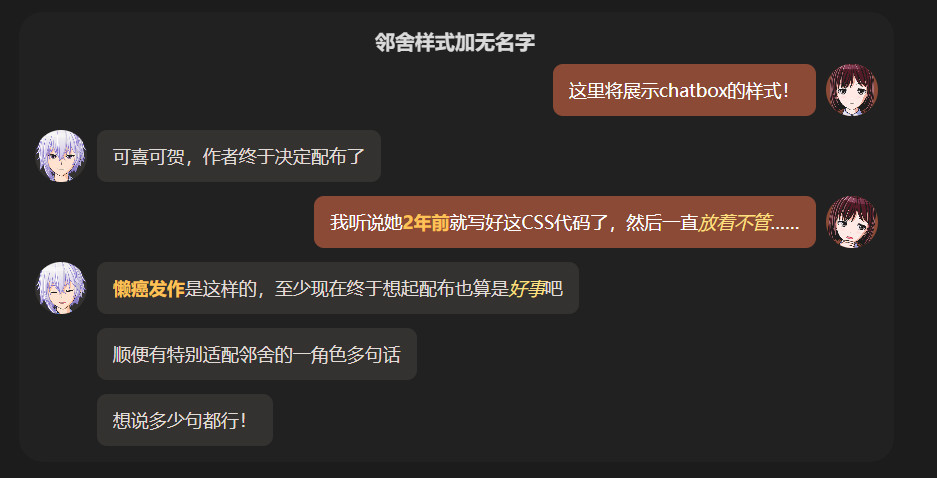
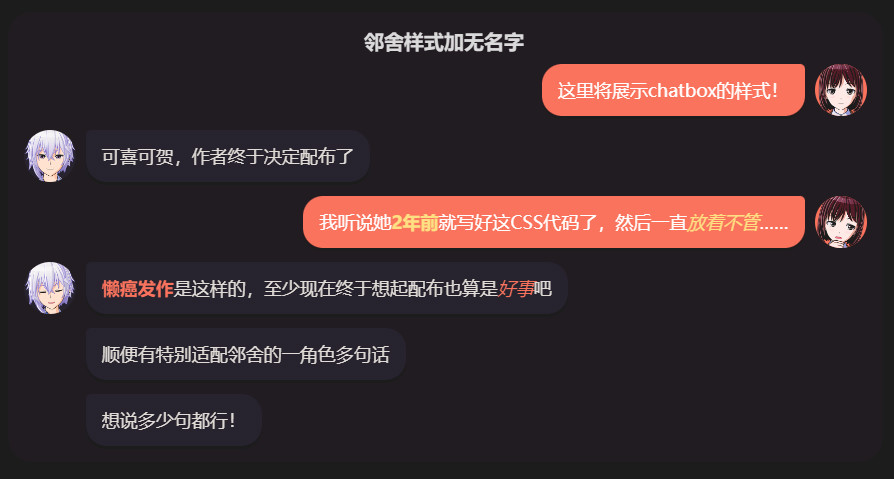
更新邻舍样式为新版本

diff --git a/Css/chatbox.css b/Css/chatbox.css
@@ -3,8 +3,8 @@
  * @author: 千野
  * @description: 改造自稻米鼠老师的TimeLine和chat-bubble，显示对话形式的callout视图
  * @created: 2024-08-08
- * @updated: 2026-08-21
- * @version: 1.0.0
+ * @updated: 2026-09-11
+ * @version: 1.0.1
  */
 
 /* === Style Settings === */
@@ -712,13 +712,23 @@ settings:
         format: rem
     -
         id: chatbox-li-linshe-border-radius
-        title: Dialogue frame radius(linshe mod)
-        title.zh: 对话框圆角（linshe模式）
+        title: Dialogue big frame radius(linshe mod)
+        title.zh: 对话框大圆角（linshe模式）
         type: variable-number-slider
-        default: 0.5
+        default: 1
         min: 0
         max: 1.5
         step: 0.1
+        format: rem
+    -
+        id: chatbox-li-linshe-border-top-radius
+        title: Dialogue small frame radius(linshe mod)
+        title.zh: 对话框小圆角（linshe模式）
+        type: variable-number-slider
+        default: 0.25
+        min: 0
+        max: 1.5
+        step: 0.05
         format: rem
     -
         id: chatbox-img-linshe-width
@@ -1955,7 +1965,8 @@ body {
     --chatbox-li-pop-border-radius: 1rem;
     --chatbox-li-wechat-border-radius: 0.5rem;
     --chatbox-li-qqchat-border-radius: 1rem;
-    --chatbox-li-linshe-border-radius: 0.5rem;
+    --chatbox-li-linshe-border-radius: 1rem;
+    --chatbox-li-linshe-border-top-radius: 0.25rem;
     --chatbox-li-baker-border-radius: 1rem;
     --chatbox-li-linshe-margin-left: 0.5rem;
     --chatbox-li-baker-margin-left: 0.3rem;
@@ -2054,8 +2065,6 @@ body {
     --chatbox-leftname-wechat-color: var(--text-muted);
     --chatbox-leftname-qqchat-color: var(--text-muted);
     --chatbox-rightname-qqchat-color: var(--text-muted);
-    --chatbox-leftname-linshe-color: #8c8074;
-    --chatbox-rightname-linshe-color: #8c8074;
     --chatbox-leftname-baker-color: var(--text-muted);
     --chatbox-rightname-baker-color: var(--text-muted);
 
@@ -2068,7 +2077,6 @@ body {
     --chatbox-p-font-in-color: var(--chatbox-p-font-color);
     --chatbox-p-wechat-font-color: var(--text-faint);
     --chatbox-p-qqchat-font-color: var(--text-faint);
-    --chatbox-p-linshe-font-color: #8c8074;
     --chatbox-p-baker-font-color: var(--text-faint);
     --chatbox-border-color: hsla(var(--interactive-accent-hsl));
     --chatbox-border-in-color: var(--chatbox-border-color);
@@ -2135,13 +2143,18 @@ body {
 
     --chatbox-background-linshe-color: rgb(236, 227, 219);
     --chatbox-left-linshe-color: rgb(255, 255, 255);
-    --chatbox-right-linshe-color: rgb(162, 87, 64);
-    --chatbox-left-linshe-strong-color: rgb(162, 87, 64);
-    --chatbox-right-linshe-strong-color: rgb(255, 194, 88);
-    --chatbox-left-linshe-em-color: rgb(162, 87, 64);
+    --chatbox-right-linshe-color: rgb(220, 120, 105);
+    --chatbox-left-linshe-strong-color: rgb(220, 120, 105);
+    --chatbox-right-linshe-strong-color: rgb(255, 208, 126);
+    --chatbox-left-linshe-em-color: rgb(220, 120, 105);
     --chatbox-right-linshe-em-color: rgb(255, 224, 130);
     --chatbox-left-linshe-text-color: rgb(50, 44, 40);
     --chatbox-right-linshe-text-color: rgb(255, 255, 255);
+    --chatbox-leftname-linshe-color: #8c8074;
+    --chatbox-rightname-linshe-color: #8c8074;
+    --chatbox-p-linshe-font-color: #8c8074;
+    --chatbox-li-linshe-box-shadow: rgba(0, 0, 0, 0.1);
+
 
     --chatbox-background-baker-color: rgb(236, 237, 241);
     --chatbox-left-baker-color: rgb(69, 68, 69);
@@ -2180,15 +2193,19 @@ body {
     --chatbox-left-qqchat-text-color: rgb(215, 215, 215);
     --chatbox-right-qqchat-text-color: rgb(215, 215, 215);
 
-    --chatbox-background-linshe-color: rgb(33, 33, 33);
-    --chatbox-left-linshe-color: rgb(52, 50, 48);
-    --chatbox-right-linshe-color: rgb(139, 74, 54);
-    --chatbox-left-linshe-strong-color: rgb(255, 194, 88);
-    --chatbox-right-linshe-strong-color: rgb(255, 194, 88);
-    --chatbox-left-linshe-em-color: rgb(255, 224, 130);
+    --chatbox-background-linshe-color: rgb(33, 24, 33);
+    --chatbox-left-linshe-color: rgb(39, 35, 46);
+    --chatbox-right-linshe-color: rgb(250, 115, 93);
+    --chatbox-left-linshe-strong-color: rgb(250, 115, 93);
+    --chatbox-right-linshe-strong-color: rgb(255, 224, 130);
+    --chatbox-left-linshe-em-color: rgb(250, 115, 93);
     --chatbox-right-linshe-em-color: rgb(255, 224, 130);
     --chatbox-left-linshe-text-color: rgb(225, 220, 215);
     --chatbox-right-linshe-text-color: rgb(255, 255, 255);
+    --chatbox-leftname-linshe-color: #a39ba9;
+    --chatbox-rightname-linshe-color: #a39ba9;
+    --chatbox-p-linshe-font-color: #a39ba9;
+    --chatbox-li-linshe-box-shadow: rgba(0, 0, 0, 0.34);
 
     --chatbox-background-baker-color: rgb(33, 33, 33);
     --chatbox-left-baker-color: rgb(69, 68, 69);
@@ -2846,6 +2863,15 @@ body {
         .callout-icon,
         .callout-icon > .svg-icon {color: var(--chatbox-background-linshe-color);}
     }
+    & > .callout-content > ul > li {box-shadow: 0 2px 0 var(--chatbox-li-linshe-box-shadow);}
+    & > .callout-content > ul:nth-child(2n+1) > li {border-top-left-radius: var(--chatbox-li-linshe-border-top-radius);}
+    & > .callout-content > ul:nth-child(2n) > li {border-top-right-radius: var(--chatbox-li-linshe-border-top-radius);}
+}
+
+/* linshe 使用swap时镜像 */
+.callout[data-callout="chatbox"].callout[data-callout-metadata*="linshe"].callout[data-callout-metadata*="swap"] {
+    & > .callout-content > ul:nth-child(2n+1) > li {border-top-right-radius: var(--chatbox-li-linshe-border-top-radius); border-top-left-radius: var(--chatbox-li-linshe-border-radius);}
+    & > .callout-content > ul:nth-child(2n) > li {border-top-left-radius: var(--chatbox-li-linshe-border-top-radius); border-top-right-radius: var(--chatbox-li-linshe-border-radius);}
 }
 
 /* 对话框样式 baker */
@@ -3091,7 +3117,7 @@ body {
             --chatbox-left-li-before-border-color: transparent;
             --chatbox-right-li-before-border-color: transparent;
             --chatbox-li-before-z-index: 0;
-            box-shadow: 0 .2rem .5rem var(--background-modifier-box-shadow);
+            box-shadow: 0 .2rem .5rem var(--chatbox-li-linshe-box-shadow);
 
             img[alt^="face"]:first-child,
             .image-embed[alt^="face"]:first-child,
